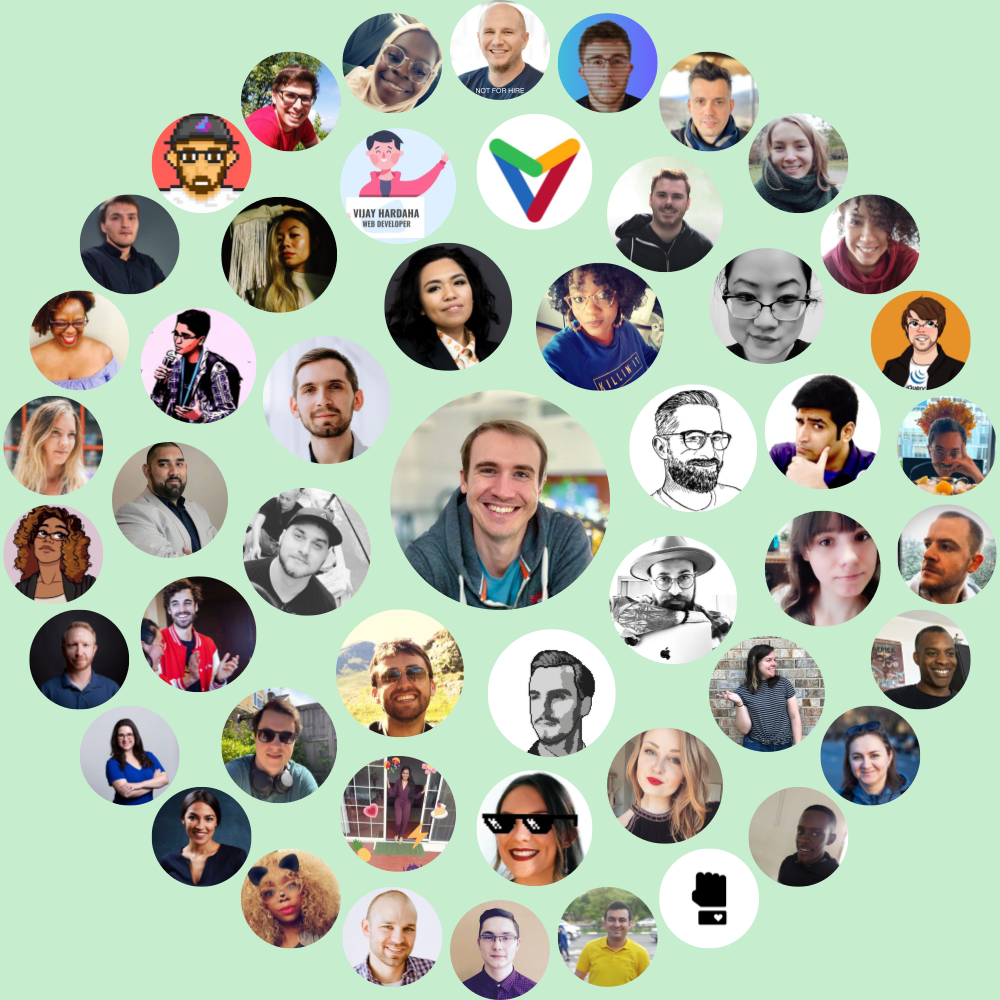
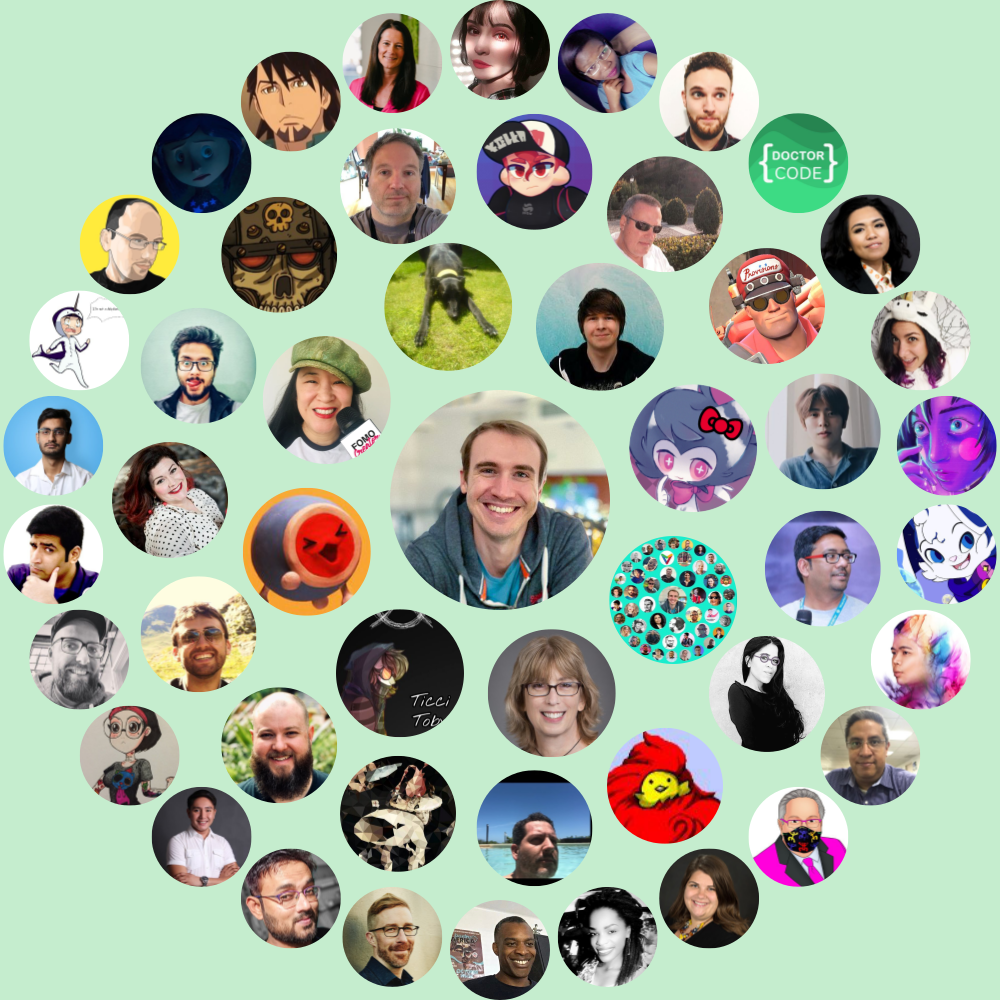
use only bearer token

diff --git a/src/api.js b/src/api.js
@@ -1,21 +1,3 @@
-const Twitter = require("twitter-lite");
-
-/**
- * The environment variable are provided by the dotenv via the .env file
- */
-const dotenv = require("dotenv");
-dotenv.config();
-
-/**
- * Create an instance of the API Client that we will use.
- * @type {Twitter}
- */
-const client = new Twitter({
-	consumer_key: process.env.CONSUMER_KEY,
-	consumer_secret: process.env.CONSUMER_SECRET,
-	access_token_key: process.env.ACCESS_TOKEN_KEY,
-	access_token_secret: process.env.ACCESS_TOKEN_SECRET,
-});
 
 /**
  * Fetch a single page of the timeline
@@ -32,7 +14,7 @@ async function getTimelinePage(screen_name, page, max_id = null) {
 	};
 
 	console.log("Fetching Timeline page " + page);
-	const res = await client.get("statuses/user_timeline", params);
+	const res = await globalThis.TwitterClient.get("statuses/user_timeline", params);
 	return res;
 }
 
@@ -71,7 +53,7 @@ async function getLikedPage(screen_name, page, max_id = null) {
 	};
 
 	console.log("Fetching Liked page " + page);
-	const res = await client.get("favorites/list", params);
+	const res = await globalThis.TwitterClient.get("favorites/list", params);
 	return res;
 }
 
@@ -107,7 +89,7 @@ async function getAvatars(ids) {
 
 	console.log("Fetching avatars " + ids.length);
 
-	const res = await client.get("users/lookup", params);
+	const res = await globalThis.TwitterClient.get("users/lookup", params);
 
 	return Object.fromEntries(
 		res.map((user) => [
@@ -115,21 +97,6 @@ async function getAvatars(ids) {
 			user.profile_image_url_https.replace("normal", "400x400"),
 		])
 	);
-}
-
-/**
- * Return informations about the currently logged in user
- * @returns {Promise<{screen_name: string, id: string, avatar: string}>}
- */
-async function getMe() {
-	console.log("Fetching me");
-	const res = await client.get("account/verify_credentials");
-
-	return {
-		id: res.id_str,
-		screen_name: res.screen_name,
-		avatar: res.profile_image_url_https.replace("normal", "400x400"),
-	};
 }
 
 /**
@@ -143,7 +110,7 @@ async function getUser(screen_name) {
 	};
 
 	console.log("Fetching user " + screen_name);
-	const res = (await client.get("users/lookup", params))[0];
+	const res = (await globalThis.TwitterClient.get("users/lookup", params))[0];
 
 	return {
 		id: res.id_str,
@@ -156,6 +123,5 @@ module.exports = {
 	getLiked,
 	getTimeline,
 	getAvatars,
-	getMe,
 	getUser
 };

diff --git a/src/index.js b/src/index.js
@@ -1,16 +1,38 @@
+const dotenv = require("dotenv");
 const getInteractions = require("./data");
 const render = require("./image");
-const {getMe, getUser} = require("./api");
+const {getUser} = require("./api");
 const {renderText} = require("./text");
+const Twitter = require("twitter-lite");
+
+/**
+ * Load the environment variables from the .env file
+ */
+dotenv.config();
 
 /**
  * This is the main function of the app. It need to be a function because we can't have a top level await.
  */
 async function main() {
+	// Create an instance of the API client using the consumer keys for your app
+	const client = new Twitter({
+		consumer_key: process.env.CONSUMER_KEY,
+		consumer_secret: process.env.CONSUMER_SECRET,
+	});
+
+	// Use the previous client to fetch the bearer token
+	// This method gives you an application-only token specifically for read-only access to public information.
+	const bearer = await client.getBearerToken();
+
+	// Create a new twitter client with this token.
+	// We assign this client to a global variable so we can access it in the api module
+	globalThis.TwitterClient = new Twitter({
+		bearer_token: bearer.access_token,
+	});
+
 	// fetch the information of the logged in user
 	// instead of getMe you could replace it with another method to get a third user to generate their circles
-	const user = await getMe();
-	// const user = await getUser(USERNAME);
+	const user = await getUser("WHATEVER_USERNAME_YOU_WANT");
 
 	// this is how many users we will have for each layer from the inside out
 	const layers = [8, 15, 26];

diff --git a/README.md b/README.md
@@ -9,7 +9,6 @@ The concept is easy and straightforward but the realization encompasses a lot of
 
 You can read more about the realization of this project on the [HackerTyper Blog](https://blog.hackertyper.net/post/twitter-interaction-circles-guide/)
 
-
 ## Installation
 ```shell script
 git clone git@github.com:duiker101/twitter-interaction-circle.git
@@ -31,13 +30,15 @@ The output will go in `users.txt` file in the root of the project
 ## Setup
 To use the project you will need Twitter API keys. You can get one on the [developer portal](https://developer.twitter.com).
 
-Once you have them, rename the `.env.example` file `.env` and put them in there, it should look like this:
+As this project uses only public data, you don't need an authorization key, but you can generate a Bearer Token. This will prevent you from fetching any private data but will grant you slightly higher rate limiting.
+
+More information about Twitter's bearer tokens can be found [here](https://developer.twitter.com/en/docs/basics/authentication/oauth-2-0)
+
+Once you have your consumer keys, rename the `.env.example` file `.env` and put them in there, it should look like this:
 
 ```dotenv
-CONSUMER_KEY=AAAAAAA
-CONSUMER_SECRET=BBBBBBB
-ACCESS_TOKEN_KEY=CCCCCCC
-ACCESS_TOKEN_SECRET=DDDDD
+CONSUMER_KEY=AAAA
+CONSUMER_SECRET=BBBBBB
 ```
 
 Make sure you don't have spaces.
